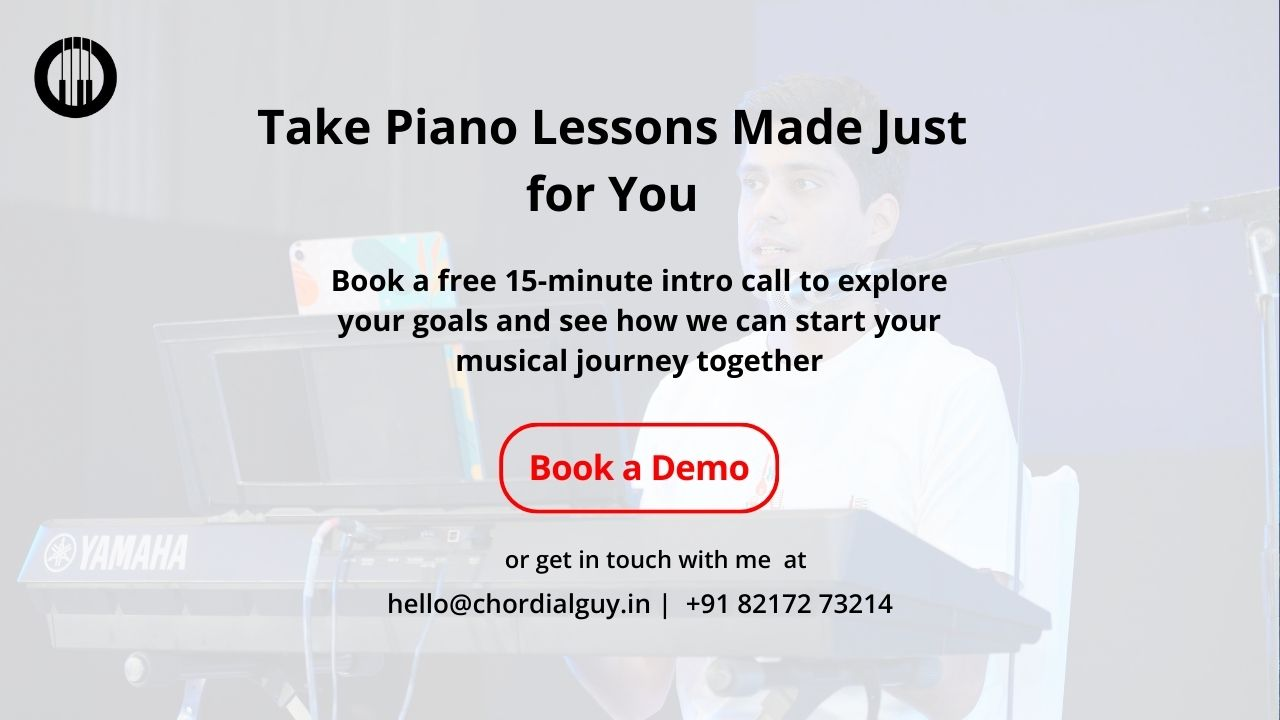
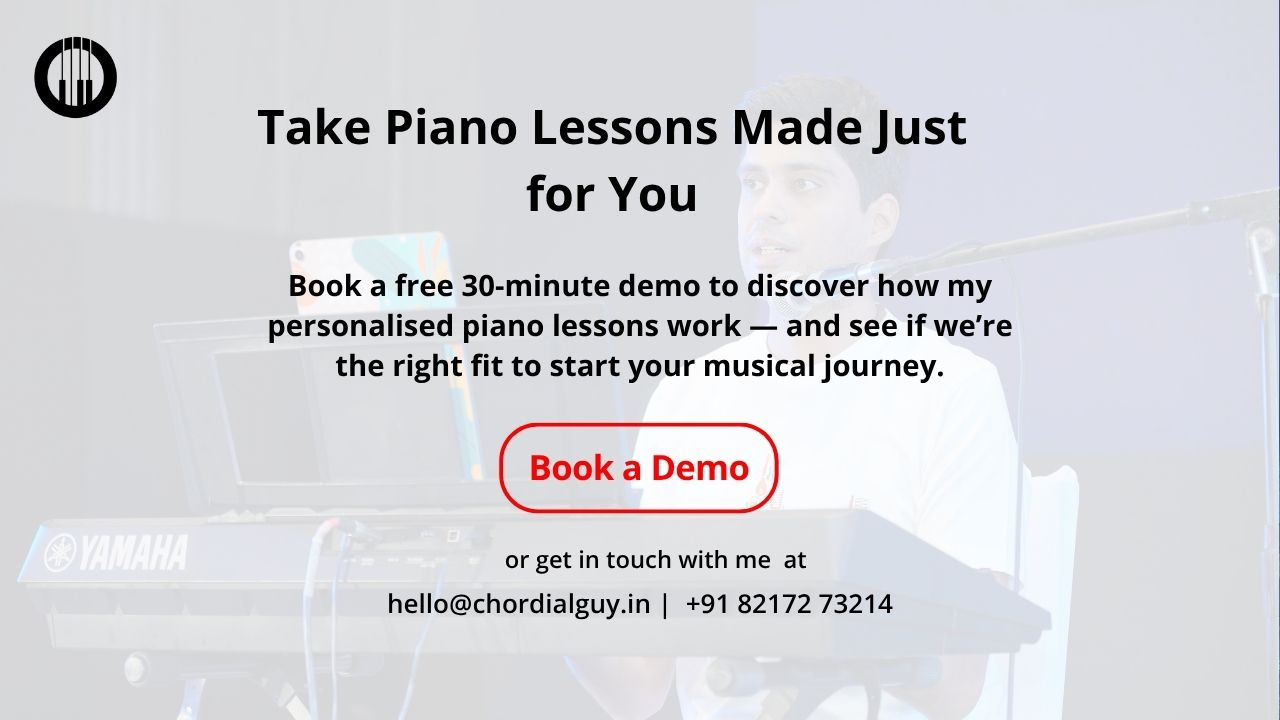
demo class graphic

Changed region(s): [[0.1875, 0.3667, 0.8125, 0.55], [0.5938, 0.6722, 0.625, 0.7028]]

diff --git a/docs/piano-classes.html b/docs/piano-classes.html
@@ -1,7 +1,7 @@
 ---
 layout: default
 title: Piano Classes
-description: Learn piano online with Chordial Guy – personalized 1-on-1 lessons for beginners and hobbyists. Book a free 15-minute intro call to start your musical journey today.
+description: Learn piano online with Chordial Guy – personalized 1-on-1 lessons for beginners and hobbyists. Book a free 15-minute demo class and start your musical journey today.
 keywords: learn piano, personalized, online lessons, beginners, Chordial Guy, Ishu Madan, pianist, ukulele, music genres, music blog
 image: /assets/piano-classes.webp
 tags: no-footer
@@ -11,7 +11,7 @@ noFooter: false
     <div class="wrapper">
         <h1>Learn Piano with Chordial Guy</h1>
         <p>Discover the joy of playing piano, tailored to your unique musical journey.</p>
-        <a target="_blank" href="{{ site.book_intro_call_link }}" class="cta-button">Book A Free Demo</a>
+        <a target="_blank" href="{{ site.book_demo_link }}" class="cta-button">Book a Free 30-Minute Demo Class</a>
       </div>
   </section>
 
@@ -84,9 +84,9 @@ noFooter: false
 
   <section class="piano-class-section book-call">
     <div class="wrapper">
-        <h3>Book a Free 30-Minute Demo</h3>
-        <p>Let’s talk about your goals and see how we can start your musical journey together.</p>
-        <a target="_blank" href="{{ site.book_intro_call_link }}" class="cta-button">Book Now</a>
+        <h3>Book a Free 30-Minute Demo Class</h3>
+        <p>Discover how my personalised piano lessons work — and see if we’re the right fit to start your musical journey.</p>
+        <a target="_blank" href="{{ site.book_demo_link }}" class="cta-button">Book Now</a>
     </div>
   </section>
 
